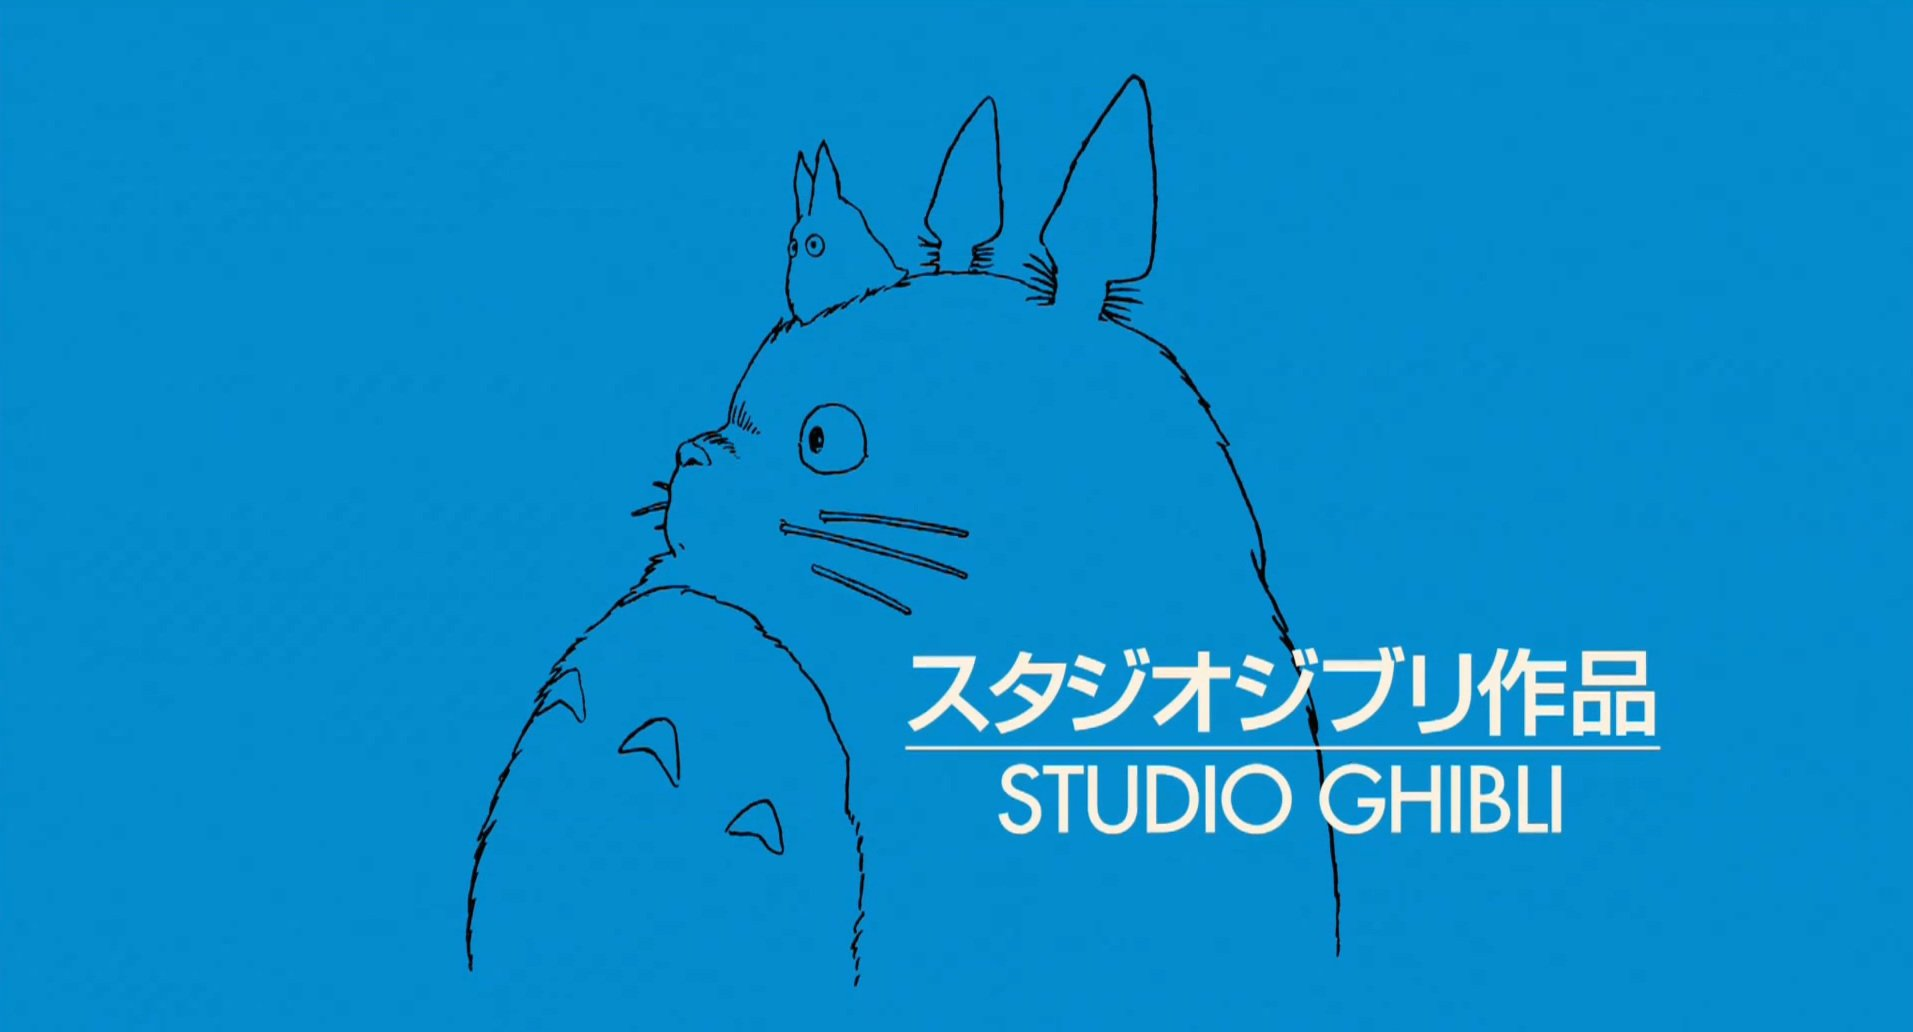
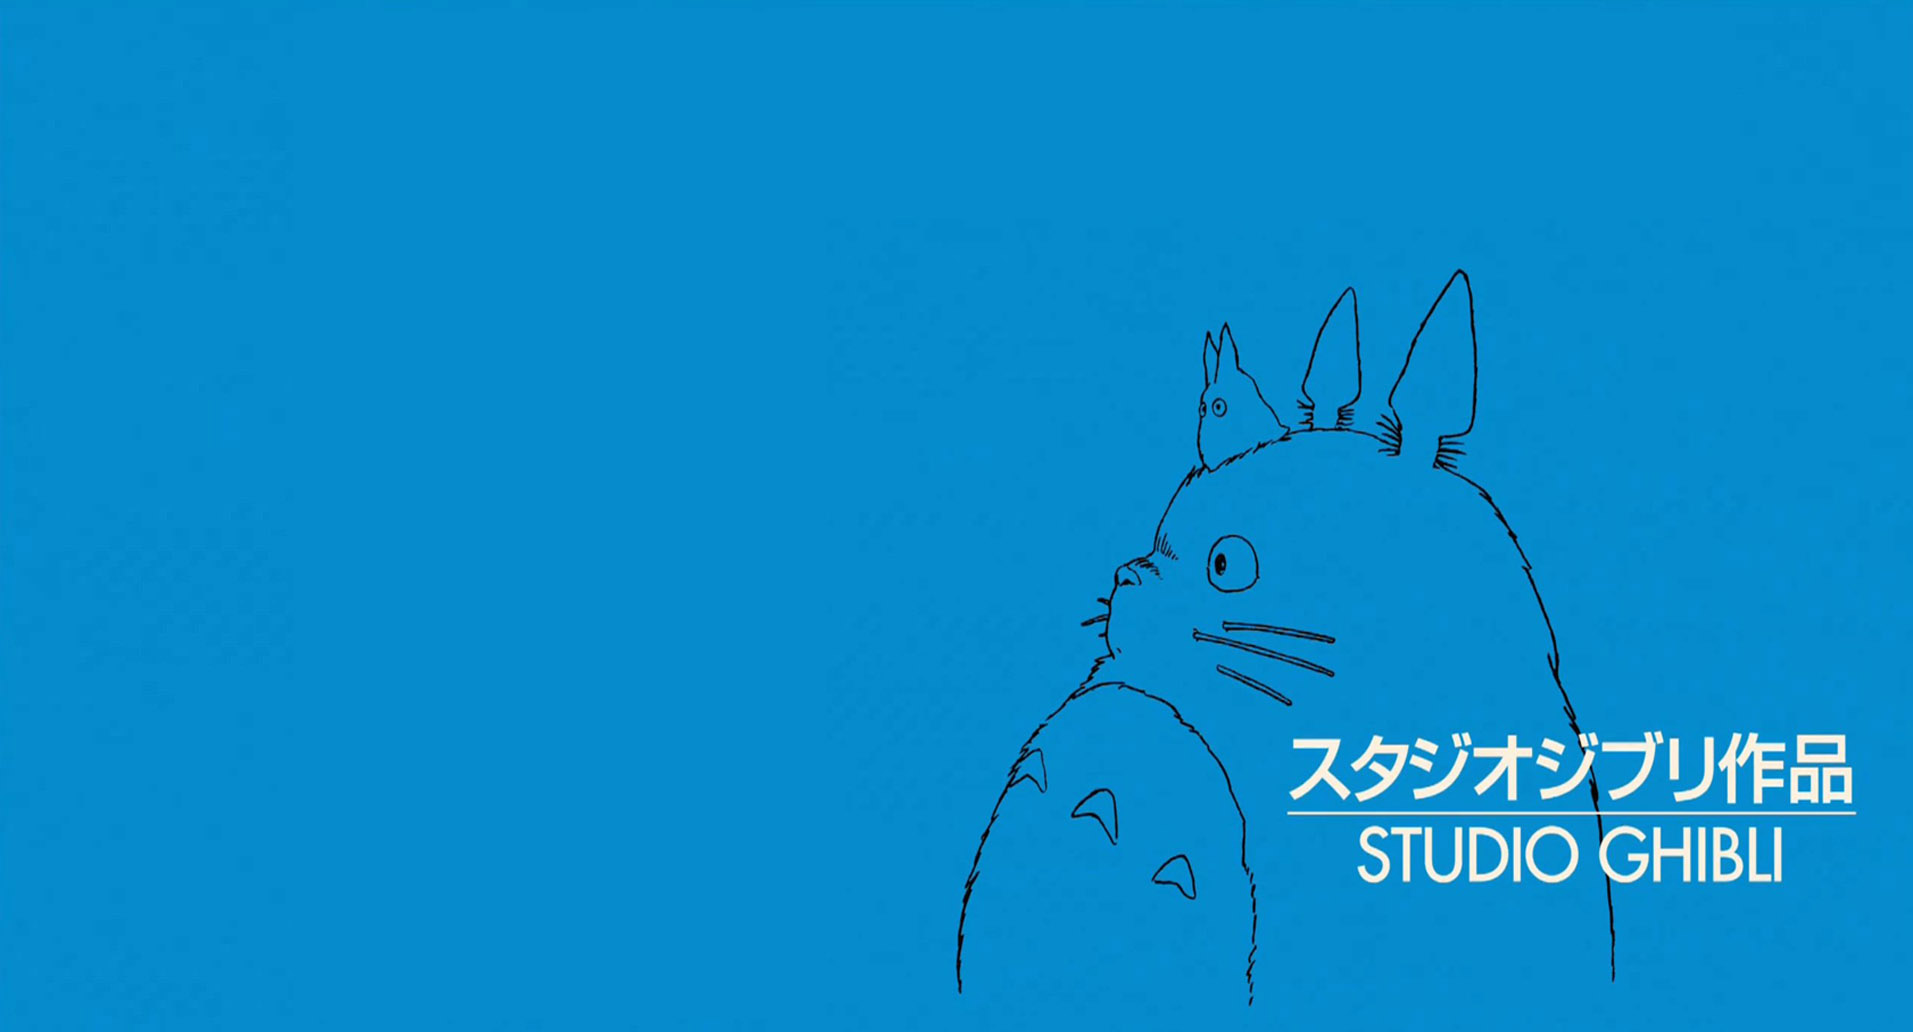
final css tweaks

diff --git a/src/views/FilmInfo.vue b/src/views/FilmInfo.vue
@@ -33,11 +33,11 @@ export default {
 }
 
 #info {
-  background-color: rgba(200, 200, 200, 0.4);
+  /* background-color: rgba(200, 200, 200, 0.4); */
   padding: 30px;
   width: 650px;
   margin-right: 100px;
-  color: black;
+  color: white;
   font-size: 18px;
   font-family: 'Quicksand', sans-serif;
 }

diff --git a/src/App.vue b/src/App.vue
@@ -20,7 +20,7 @@ body {
   justify-content: flex-end;
   background-color: lightblue;
   height: 100vh;
-  background-image: url('~@/assets/Tales-from-Earthsea.jpg');
+  background-image: url('~@/assets/studio.jpg');
   background-size: cover;
 }
 </style>

diff --git a/src/components/NavBar.vue b/src/components/NavBar.vue
@@ -21,6 +21,7 @@ a {
   text-decoration: none;
   font-size: 16px;
   font-family: 'Quicksand', sans-serif;
+  color: black;
 }
 
 </style>
